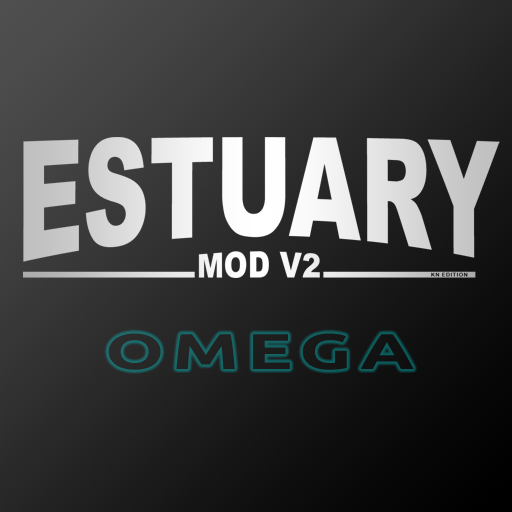
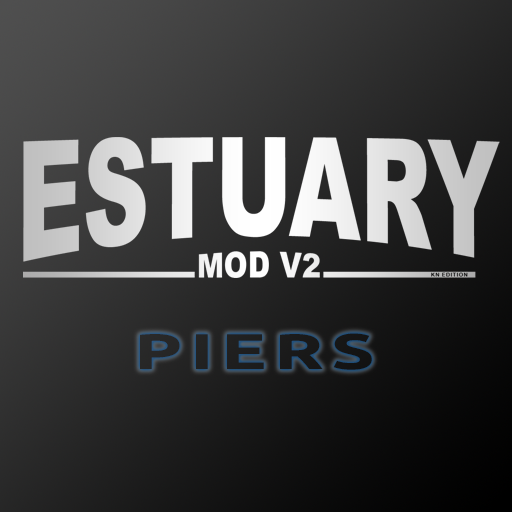
Code cleaning pt.3

Changed region(s): [[0.1875, 0.625, 0.8125, 0.75]]

diff --git a/README.md b/README.md
@@ -44,7 +44,8 @@ supports animated poster only.
 ![](resources/setup_ap.png)
 
 ### 22.0+piers ###
-- .0 start development for Kodi 22 (Piers)
+- .0 
+- start development for Kodi 22 (Piers)
 - code cleanup pt.1/2
 
 ### 21.4+omega ###
